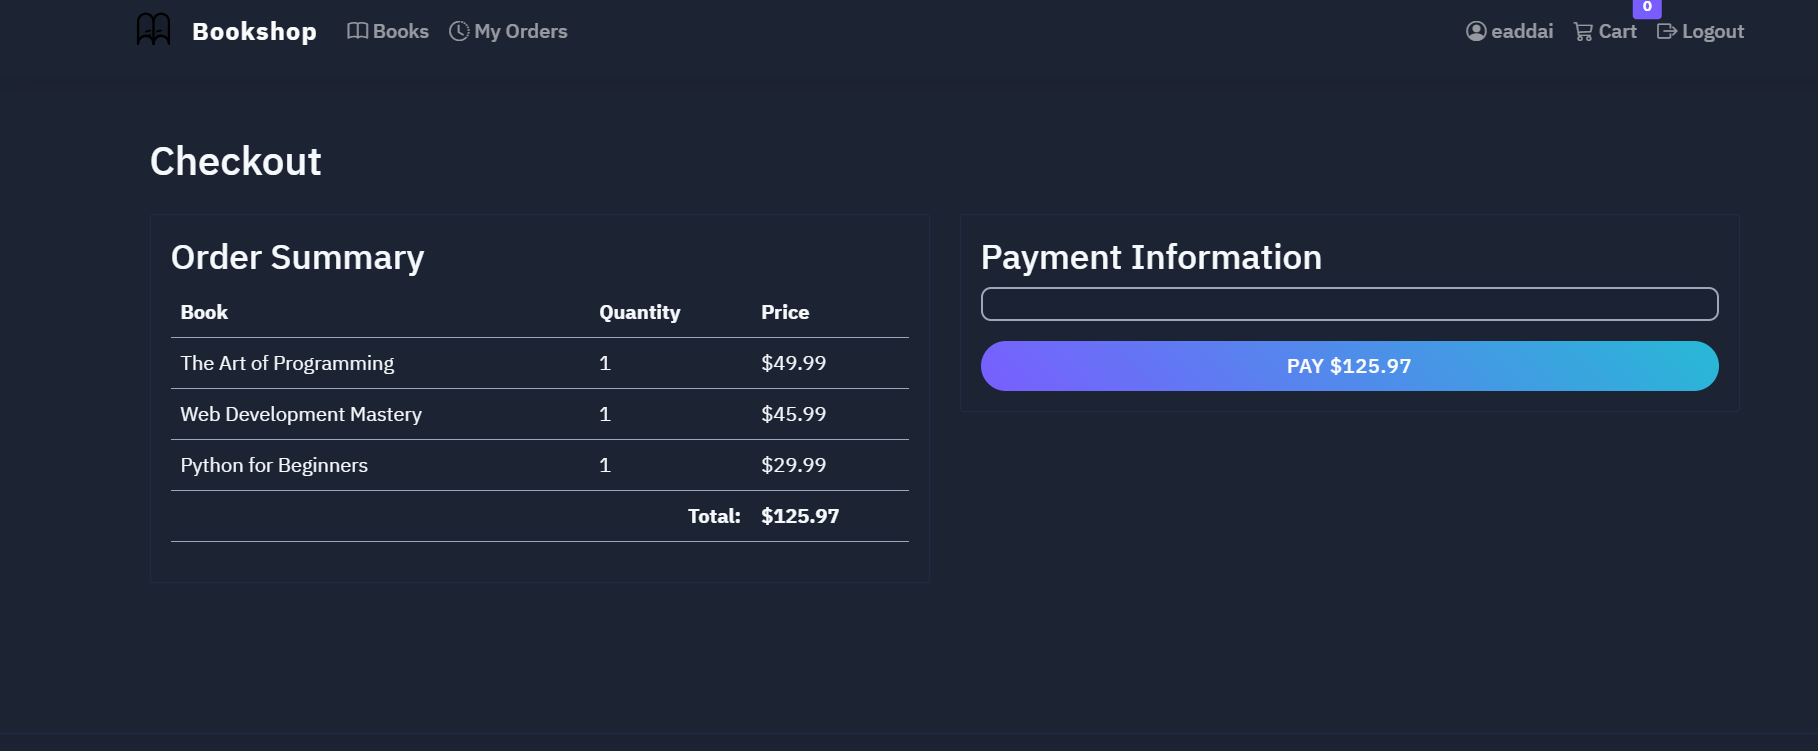
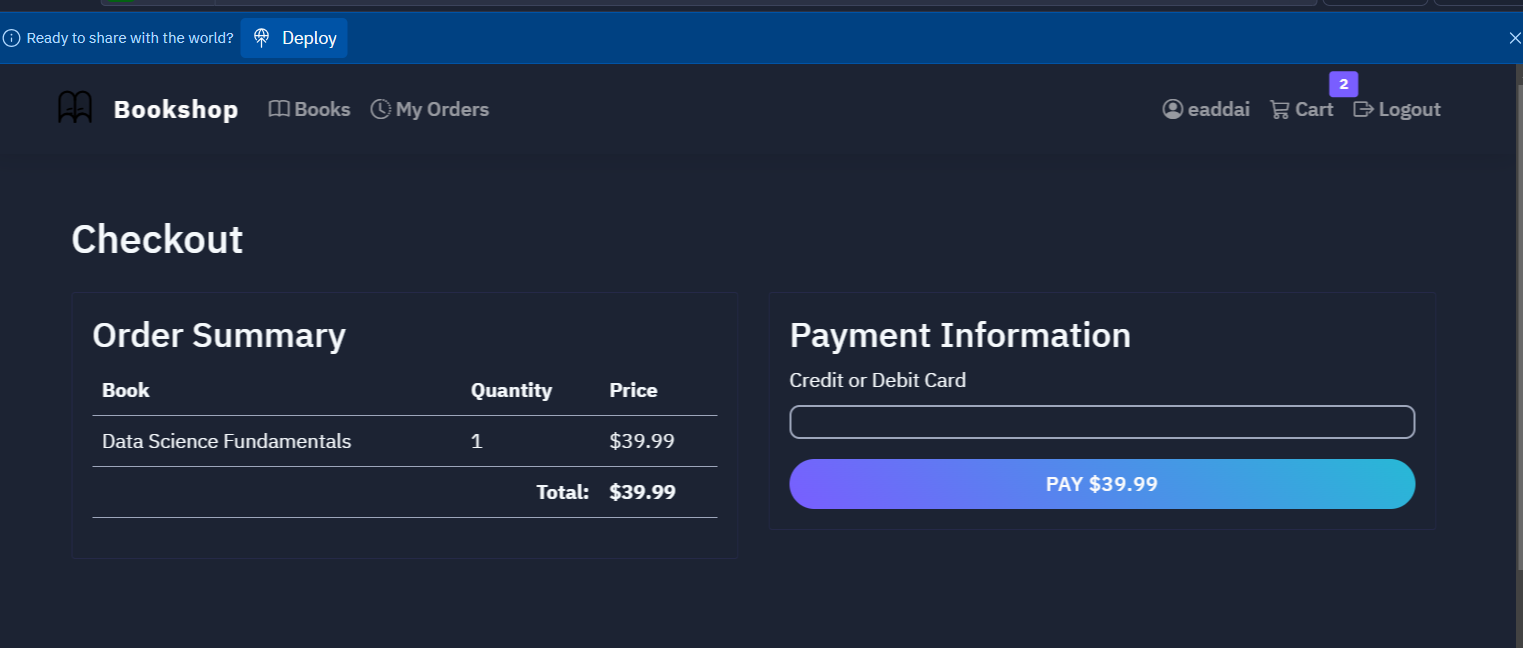
Agent query: Please verify: 1. Is the cart count now working correctly? 2. Are the billing information fields visible on the checkout page? 3. Is the Stripe card element properly styled and integrated?

diff --git a/templates/cart/checkout.html b/templates/cart/checkout.html
@@ -1,33 +1,11 @@
 {% extends "base.html" %}
 
-{% block head %}
-<!-- Stripe Integration -->
-<script src="https://js.stripe.com/v3/"></script>
-<script>
-    const stripe = Stripe('{{ stripe_publishable_key }}');
-    const elements = stripe.elements({
-        appearance: {
-            theme: 'night',
-            variables: {
-                colorPrimary: '#0d6efd',
-                colorBackground: '#212529',
-                colorText: '#ffffff',
-                colorDanger: '#dc3545',
-                fontFamily: 'system-ui, -apple-system, "Segoe UI", Roboto, "Helvetica Neue", Arial',
-                spacingUnit: '2px',
-                borderRadius: '4px'
-            }
-        }
-    });
-</script>
-{% endblock %}
-
 {% block content %}
 <div class="container">
     <h2 class="mb-4">Checkout</h2>
     <div class="row">
         <!-- Order Summary Section -->
-        <div class="col-md-6">
+        <div class="col-md-4">
             <div class="card mb-4">
                 <div class="card-body">
                     <h3 class="card-title">Order Summary</h3>
@@ -62,15 +40,41 @@
         </div>
 
         <!-- Payment Section -->
-        <div class="col-md-6">
+        <div class="col-md-8">
             <div class="card">
                 <div class="card-body">
                     <h3 class="card-title">Payment Information</h3>
                     <form id="payment-form" class="needs-validation" novalidate>
                         <div class="mb-3">
+                            <label for="name" class="form-label">Cardholder Name</label>
+                            <input type="text" class="form-control" id="name" required>
+                        </div>
+                        <div class="mb-3">
+                            <label for="email" class="form-label">Email</label>
+                            <input type="email" class="form-control" id="email" required>
+                        </div>
+                        <div class="mb-3">
+                            <label for="address" class="form-label">Billing Address</label>
+                            <input type="text" class="form-control" id="address" required>
+                        </div>
+                        <div class="mb-3">
+                            <label for="city" class="form-label">City</label>
+                            <input type="text" class="form-control" id="city" required>
+                        </div>
+                        <div class="row mb-3">
+                            <div class="col">
+                                <label for="state" class="form-label">State</label>
+                                <input type="text" class="form-control" id="state" required>
+                            </div>
+                            <div class="col">
+                                <label for="zip" class="form-label">ZIP Code</label>
+                                <input type="text" class="form-control" id="zip" required>
+                            </div>
+                        </div>
+                        <div class="mb-3">
                             <label for="card-element" class="form-label">Credit or Debit Card</label>
-                            <div id="card-element" class="form-control bg-dark"></div>
-                            <div id="card-errors" class="invalid-feedback d-none" role="alert"></div>
+                            <div id="card-element" class="form-control"></div>
+                            <div id="card-errors" class="invalid-feedback" role="alert"></div>
                         </div>
                         <button type="submit" class="btn btn-primary w-100" id="submit-button">
                             <span id="button-text">Pay ${{ "%.2f"|format(total) }}</span>
@@ -83,24 +87,26 @@
     </div>
 </div>
 
+<script src="https://js.stripe.com/v3/"></script>
 <script>
-    const cardElement = elements.create('card', {
-        style: {
-            base: {
-                color: '#ffffff',
-                fontSize: '16px',
-                '::placeholder': {
-                    color: '#6c757d'
-                },
-                backgroundColor: '#212529'
-            },
-            invalid: {
-                color: '#dc3545',
-                iconColor: '#dc3545'
+document.addEventListener('DOMContentLoaded', function() {
+    const stripe = Stripe('{{ stripe_publishable_key }}');
+    const elements = stripe.elements({
+        appearance: {
+            theme: 'night',
+            variables: {
+                colorPrimary: '#0d6efd',
+                colorBackground: '#212529',
+                colorText: '#ffffff',
+                colorDanger: '#dc3545',
+                fontFamily: 'system-ui, -apple-system, "Segoe UI", Roboto, "Helvetica Neue", Arial',
+                spacingUnit: '2px',
+                borderRadius: '4px'
             }
         }
     });
 
+    const cardElement = elements.create('card');
     cardElement.mount('#card-element');
 
     const form = document.getElementById('payment-form');
@@ -109,6 +115,7 @@
     const spinner = document.getElementById('spinner');
     const errorDisplay = document.getElementById('card-errors');
 
+    // Handle real-time validation errors
     cardElement.on('change', (event) => {
         if (event.error) {
             showError(event.error.message);
@@ -121,10 +128,22 @@
         event.preventDefault();
         setLoading(true);
 
+        const billingDetails = {
+            name: document.getElementById('name').value,
+            email: document.getElementById('email').value,
+            address: {
+                line1: document.getElementById('address').value,
+                city: document.getElementById('city').value,
+                state: document.getElementById('state').value,
+                postal_code: document.getElementById('zip').value,
+            }
+        };
+
         try {
             const {paymentMethod, error} = await stripe.createPaymentMethod({
                 type: 'card',
                 card: cardElement,
+                billing_details: billingDetails,
             });
 
             if (error) {
@@ -175,5 +194,6 @@
         errorDisplay.textContent = '';
         errorDisplay.classList.add('d-none');
     }
+});
 </script>
 {% endblock %}

diff --git a/views/cart.py b/views/cart.py
@@ -11,7 +11,8 @@ cart = Blueprint('cart', __name__)
 def get_cart_count():
     try:
         cart_data = session.get('cart', {})
-        count = sum(int(val) for val in cart_data.values()) if cart_data else 0
+        # Only count items if cart_data exists and has items
+        count = sum(int(val) for val in cart_data.values()) if cart_data and cart_data.values() else 0
         return jsonify({'count': count, 'success': True})
     except Exception as e:
         current_app.logger.error(f'Error getting cart count: {str(e)}')
@@ -56,7 +57,7 @@ def add_to_cart():
             cart_data[book_id] = quantity
         
         session['cart'] = cart_data
-        count = sum(int(val) for val in cart_data.values())
+        count = sum(int(val) for val in cart_data.values()) if cart_data and cart_data.values() else 0
         return jsonify({'success': True, 'cart_count': count})
     except Exception as e:
         current_app.logger.error(f'Error adding to cart: {str(e)}')
@@ -76,7 +77,7 @@ def update_cart():
             cart_data.pop(book_id, None)
         
         session['cart'] = cart_data
-        count = sum(int(val) for val in cart_data.values())
+        count = sum(int(val) for val in cart_data.values()) if cart_data and cart_data.values() else 0
         return jsonify({'success': True, 'cart_count': count})
     except Exception as e:
         current_app.logger.error(f'Error updating cart: {str(e)}')
